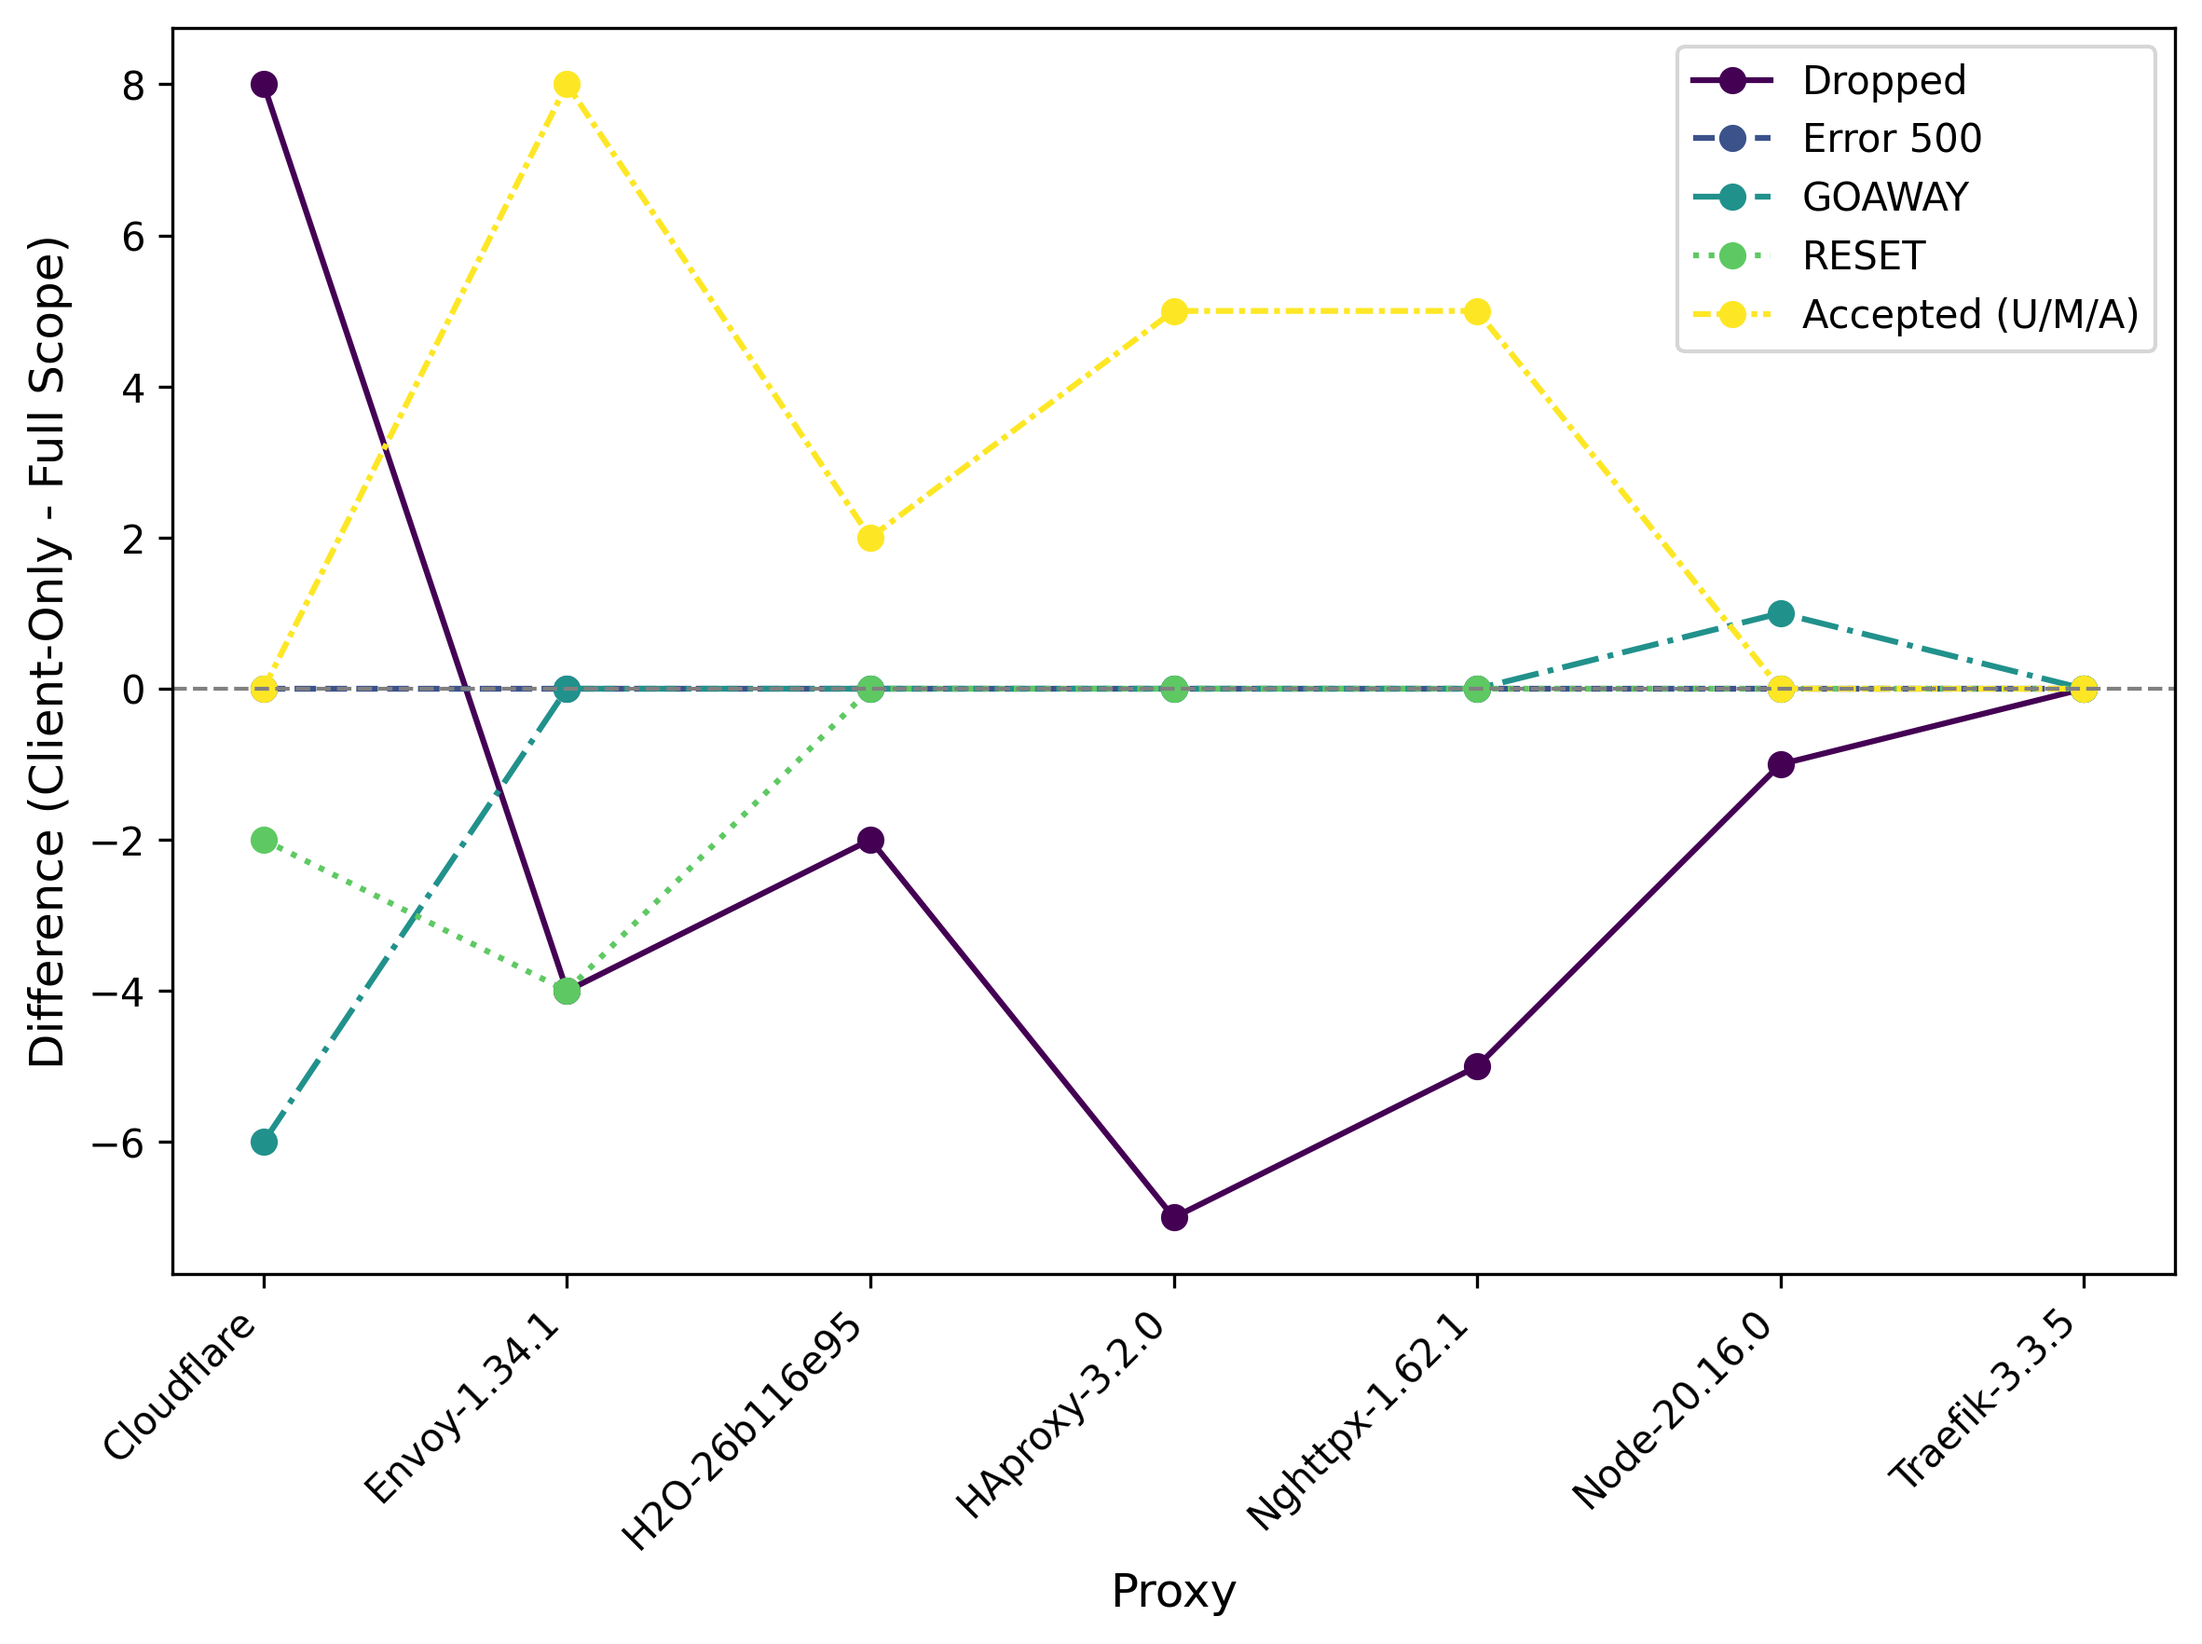
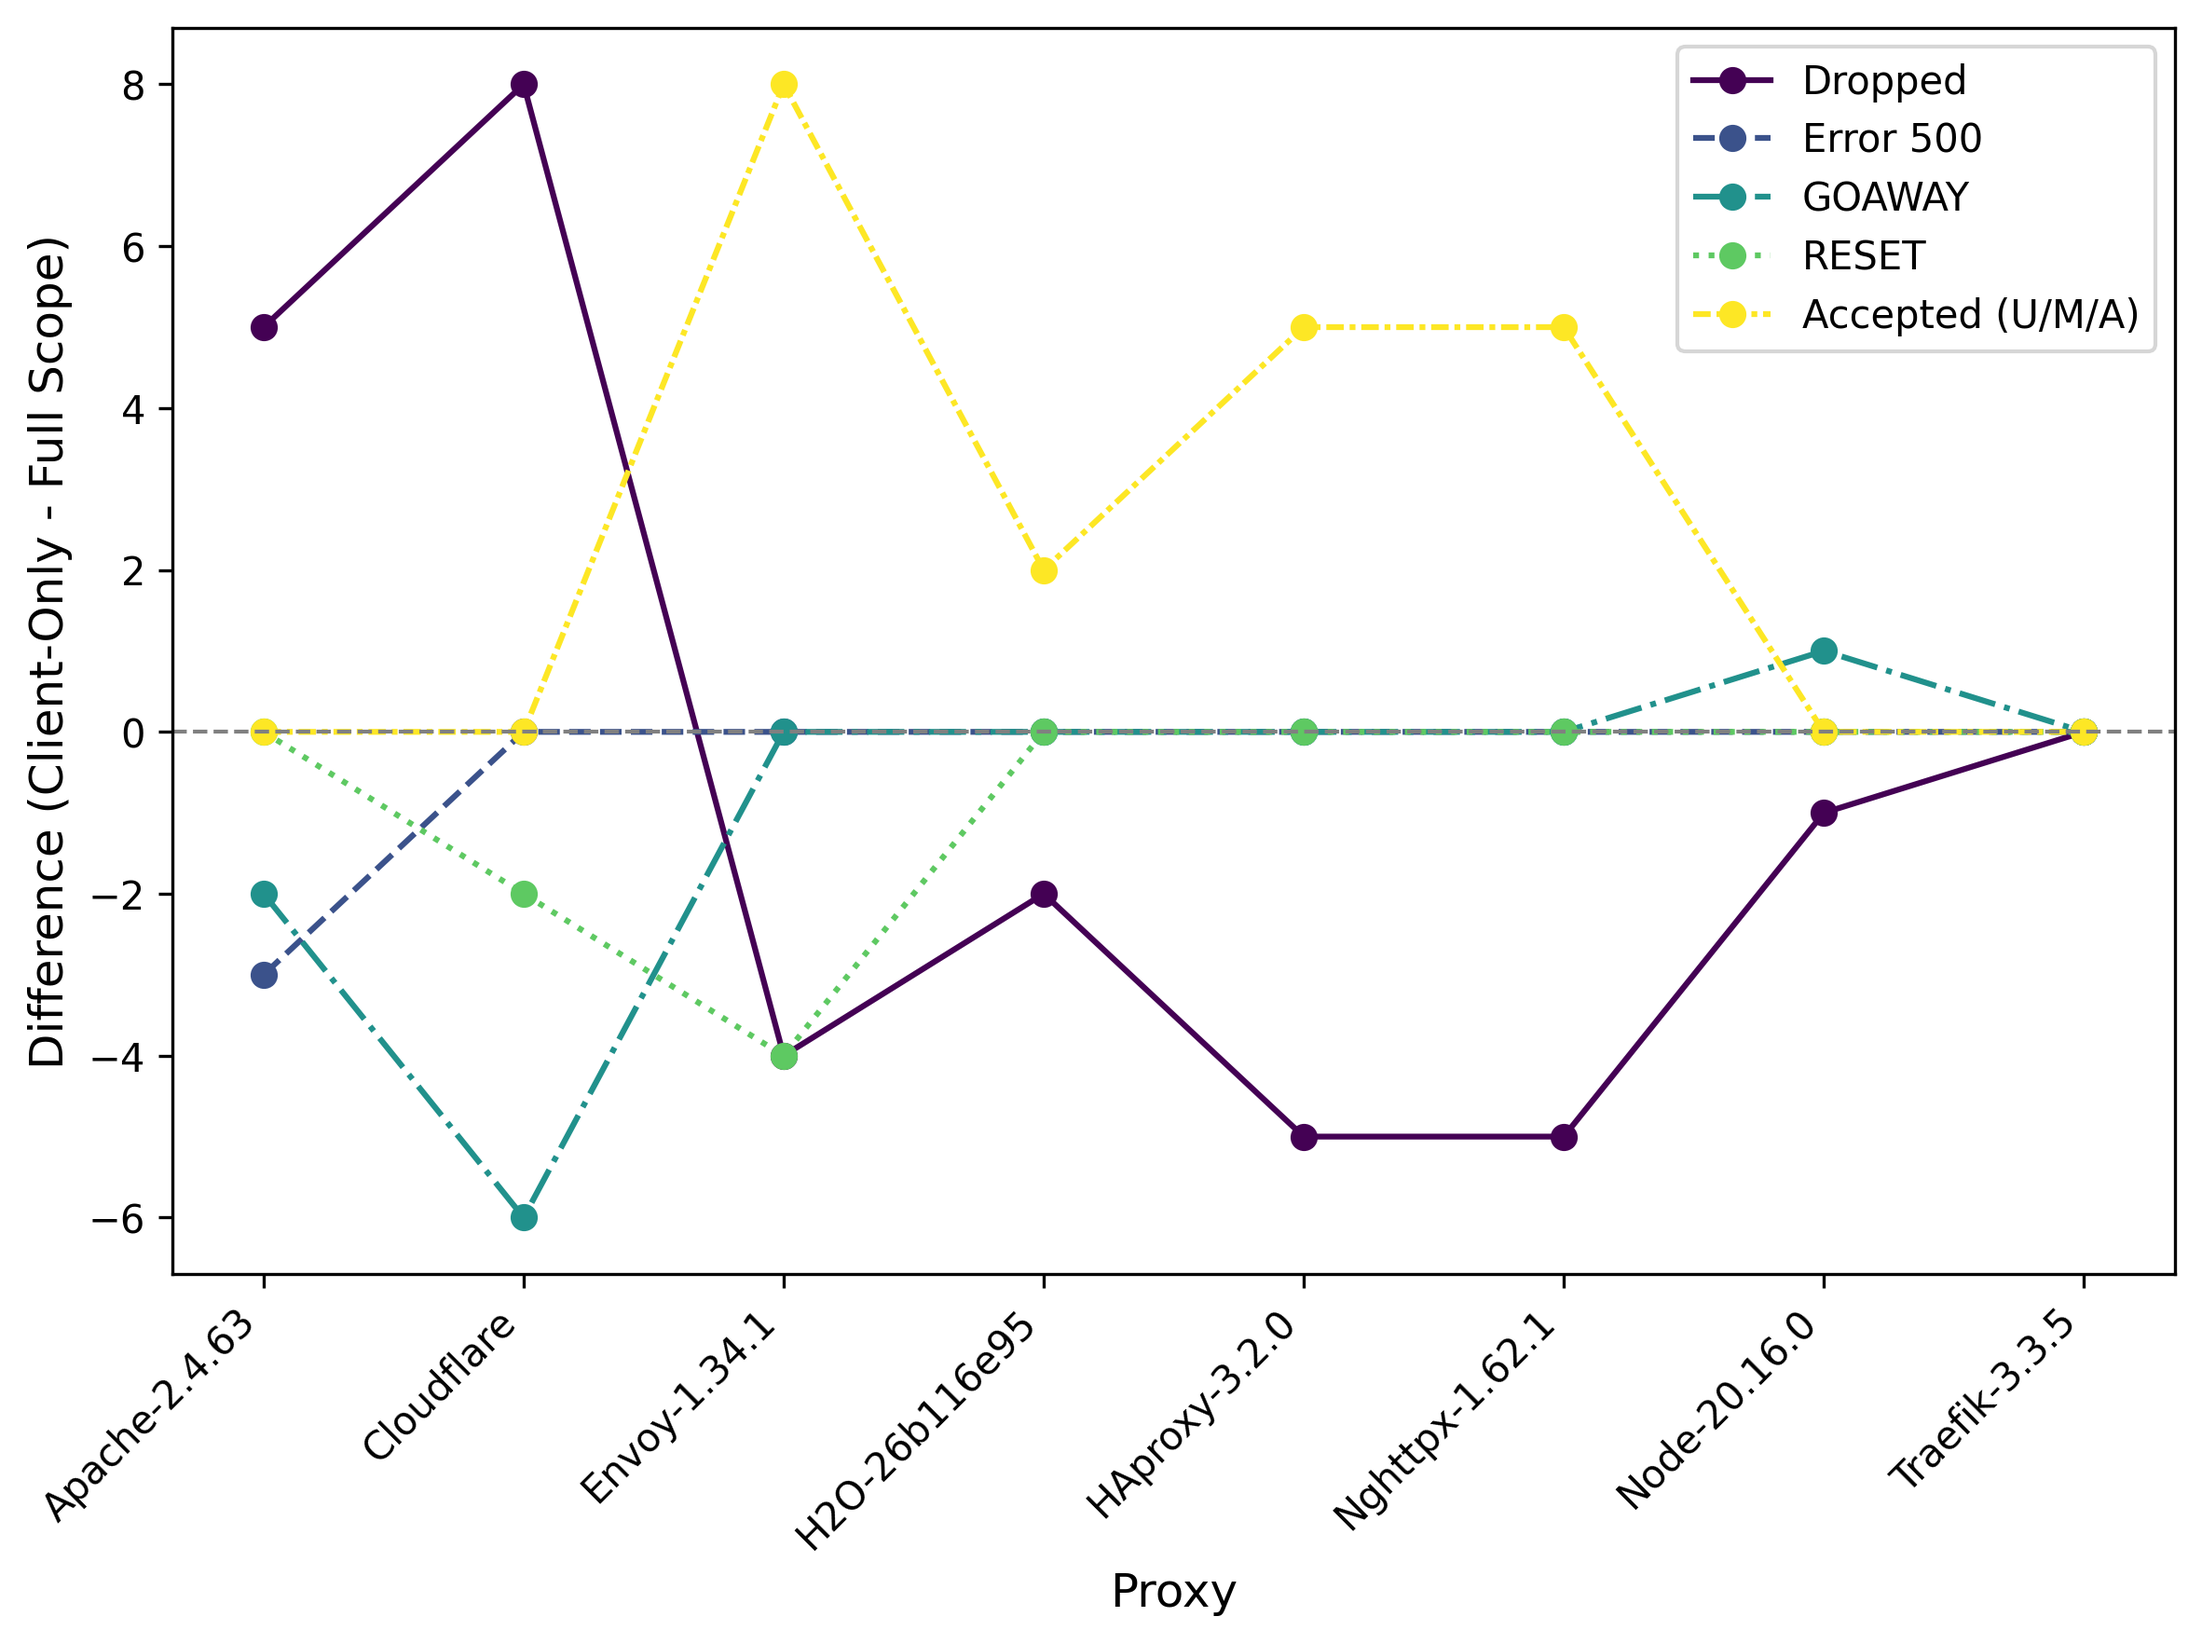
update results

diff --git a/analysis/tables/result_counts.md b/analysis/tables/result_counts.md
@@ -28,7 +28,7 @@ This document presents the results of HTTP/2 conformance testing across various 
 | Apache-2.4.63 | Dropped: 48 | 500 Error: 40 | GOAWAY: 67, RESET: 0 | Modified: 0, Unmodified: 1 |
 | Caddy-2.9.1 | Dropped: 50 | 500 Error: 65 | GOAWAY: 29, RESET: 0 | Modified: 6, Unmodified: 6 |
 | Cloudflare | Dropped: 73 | 500 Error: 63 | GOAWAY: 6, RESET: 5 | Modified: 7, Unmodified: 2 |
-| Envoy-1.34.1 | Dropped: 52 | 500 Error: 31 | GOAWAY: 63, RESET: 4 | Modified: 0, Unmodified: 4 |
+| Envoy-1.34.1 | Dropped: 52 | 500 Error: 31 | GOAWAY: 63, RESET: 4 | Modified: 2, Unmodified: 4 |
 | H2O-26b116e95 | Dropped: 89 | 500 Error: 7 | GOAWAY: 59, RESET: 0 | Modified: 1, Unmodified: 0 |
 | HAproxy-3.2.0 | Dropped: 40 | 500 Error: 24 | GOAWAY: 81, RESET: 1 | Modified: 5, Unmodified: 5 |
 | Mitmproxy-11.1.0 | Dropped: 21 | 500 Error: 0 | GOAWAY: 0, RESET: 4 | Modified: 0, Unmodified: 131 |
@@ -42,7 +42,7 @@ This document presents the results of HTTP/2 conformance testing across various 
 | Apache-2.4.63 | **Unmodified Tests**: 6 |
 | Caddy-2.9.1 | **Modified Tests**: 142-147<br>**Unmodified Tests**: 6, 81, 92, 136-137, 156 |
 | Cloudflare | **Modified Tests**: 3, 125, 136-137, 146, 148, 153<br>**Unmodified Tests**: 81, 92 |
-| Envoy-1.34.1 | **Unmodified Tests**: 6, 81, 136-137 |
+| Envoy-1.34.1 | **Modified Tests**: 3, 149<br>**Unmodified Tests**: 6, 81, 136-137 |
 | H2O-26b116e95 | **Modified Tests**: 78 |
 | HAproxy-3.2.0 | **Modified Tests**: 51-52, 68, 136-137<br>**Unmodified Tests**: 6, 69, 78, 81, 147 |
 | Mitmproxy-11.1.0 | **Unmodified Tests**: 2-4, 6-8, 10-15, 17-19, 25-32, 36-79, 81-85, 87, 89-92, 94-96, 103-116, 120-156 |
